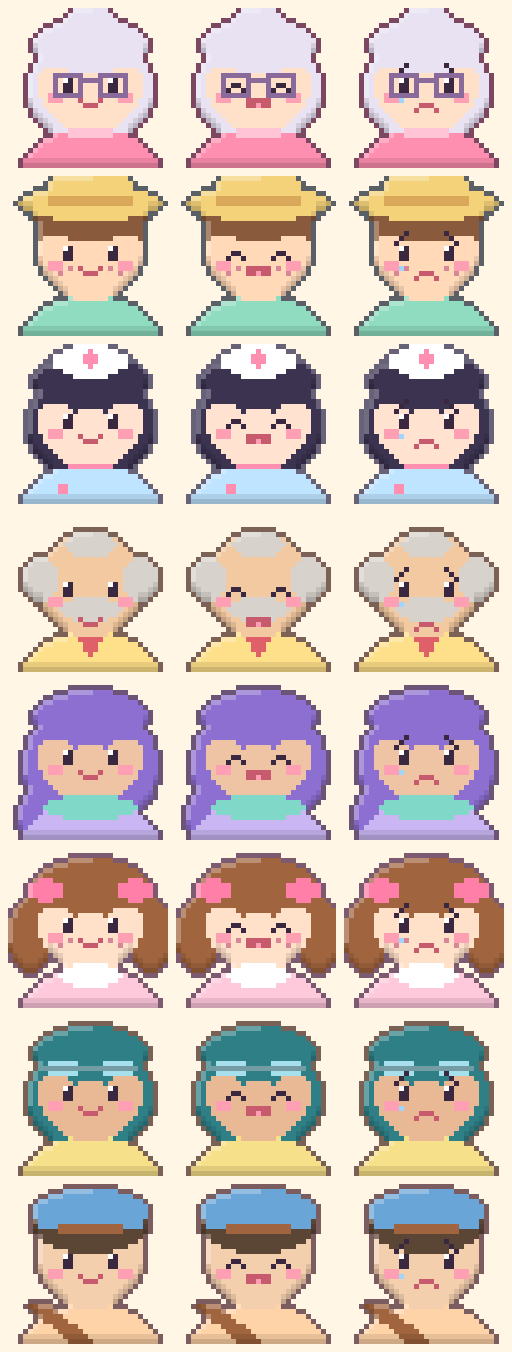
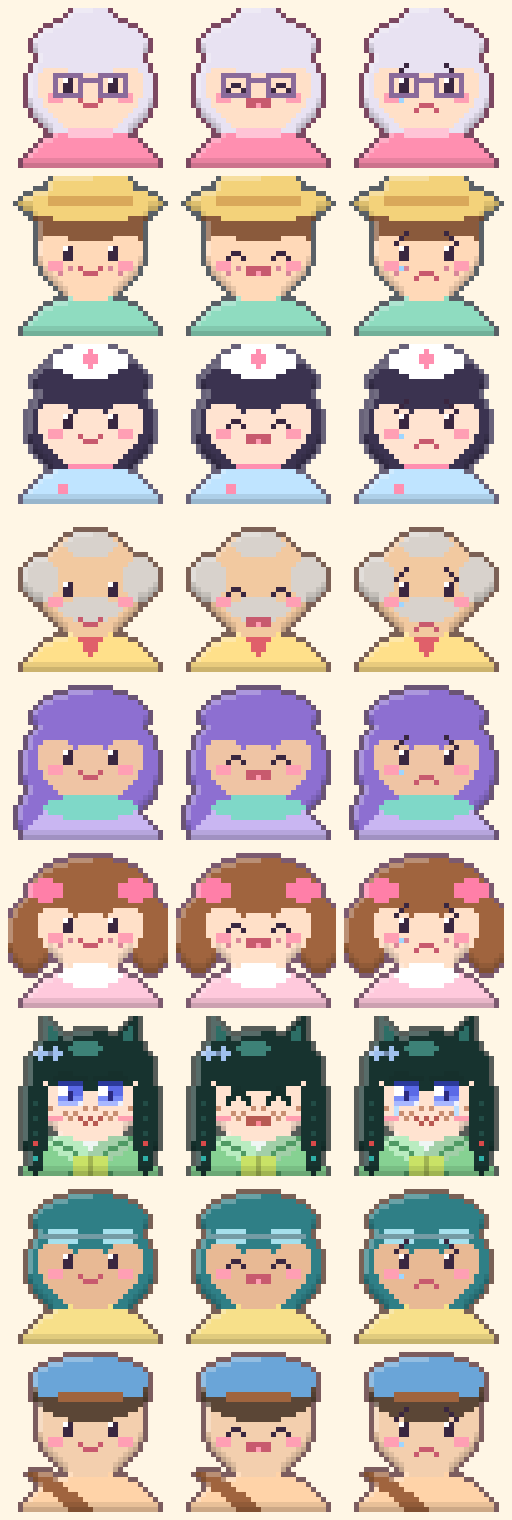
feat(mao-mao): Mao Mao atiende la Veterinaria mientras la Dra. Pita está de viaje
Retrato pixel art chibi de gato registrado (id mao), escena de despedida de Pita y llegada de
Mao Mao al terminar el festival, sus líneas y visitas desde el capítulo 6 (visitas de Pita con
maxCh 5), texto de la Veterinaria según el capítulo. Pruebas y e2e; README, CLAUDE.md y notas.

Claude-Session: https://claude.ai/code/session_018YWypGKWXhxvXiHh4dNhvd

diff --git a/src/data.js b/src/data.js
@@ -318,7 +318,8 @@ export const PRODUCTS = {
 export const CHARACTERS = {
   abuela: { nombre: 'Abuela Cosi', rol: 'Dejó la granja a la familia y escribe cartas desde lejos', color: '#ff8fb0' },
   tomas: { nombre: 'Tomás', rol: 'El vecino curioso que ayuda en la granja', color: '#8fdcc0' },
-  pita: { nombre: 'Dra. Pita', rol: 'La veterinaria del pueblo', color: '#bfe4ff' },
+  pita: { nombre: 'Dra. Pita', rol: 'La veterinaria del pueblo (de viaje desde el festival)', color: '#bfe4ff' },
+  mao: { nombre: 'Mao Mao', rol: 'Boticaria que cuida la Veterinaria mientras la Dra. Pita está de viaje', color: '#86d192' },
   ramon: { nombre: 'Don Ramón', rol: 'El comerciante que compra tus productos', color: '#ffe08a' },
   lia: { nombre: 'Lía', rol: 'Guía del río perdido, amiga de la abuela de joven', color: '#c9b6f2' },
   mia: { nombre: 'Mía', rol: 'La hermanita de Tomás, coleccionista de cosas suaves', color: '#ffc9dc' },
@@ -490,10 +491,10 @@ export const SIDE_QUESTS = [
     text: 'Los niños de la escuela merecen un vaso de leche fresca. Recoge 5 leches.',
     goal: { type: 'collect', product: 'leche', n: 5 }, reward: { coins: 30, foods: { heno: 6 } } },
   { id: 's-familia', minCh: 2, who: 'pita', title: 'La familia crece',
-    text: 'Me encanta ver crías sanas. Que nazcan 3 crías en la granja.',
+    text: 'Nota de la Dra. Pita: «Me encanta ver crías sanas. Que nazcan 3 crías en la granja.»',
     goal: { type: 'born', n: 3 }, reward: { coins: 70 } },
   { id: 's-corazon', minCh: 2, who: 'pita', title: 'Un amigo de verdad',
-    text: 'La confianza se gana con mimos y su comida favorita. Consigue que un animal tenga 1 corazón.',
+    text: 'Nota de la Dra. Pita: «La confianza se gana con mimos y su comida favorita. Consigue que un animal tenga 1 corazón.»',
     goal: { type: 'hearts', n: 1 }, reward: { coins: 40 } },
   { id: 's-brillitos', minCh: 2, needs: 'mapache', who: 'tomas', title: 'Colección de brillitos',
     text: 'El mapache esconde cosas brillantes en el bosque. Recoge 3 brillitos.',
@@ -502,7 +503,7 @@ export const SIDE_QUESTS = [
     text: 'El restaurante del pueblo me pidió trufas para su menú especial. Recoge 3 trufas.',
     goal: { type: 'collect', product: 'trufa', n: 3 }, reward: { coins: 90 } },
   { id: 's-chequeo', minCh: 3, who: 'pita', title: 'Visita a la Veterinaria',
-    text: 'Si algún animal se enferma, tráelo: lo dejo como nuevo. Cura a 1 animal en la Veterinaria.',
+    text: 'Nota de la Dra. Pita: «Si algún animal se enferma, tráelo: lo dejo como nuevo.» Cura a 1 animal en la Veterinaria.',
     goal: { type: 'cured', n: 1 }, reward: { coins: 40 } },
   { id: 's-burbujas', minCh: 3, needs: 'ajolote', who: 'tomas', title: 'Burbujas de la suerte',
     text: 'Mi hermanita quiere un frasco lleno de burbujas. Recoge 3 burbujas.',
@@ -511,7 +512,7 @@ export const SIDE_QUESTS = [
     text: 'El sábado hay mercado y quiero tener de todo. Vende 25 productos.',
     goal: { type: 'sold', n: 25 }, reward: { coins: 120 } },
   { id: 's-mejores', minCh: 3, who: 'pita', title: 'Mejores amigos',
-    text: 'Dicen que un animal con 4 corazones te sigue a todas partes. Consigue que uno tenga 4 corazones.',
+    text: 'Nota de la Dra. Pita: «Dicen que un animal con 4 corazones te sigue a todas partes.» Consigue que uno tenga 4 corazones.',
     goal: { type: 'hearts', n: 4 }, reward: { coins: 150 } },
   { id: 's-escamas', minCh: 4, needs: 'carnotauro', who: 'lia', title: 'Escamas para el faro',
     text: 'Con escamas de fuego se enciende el faro del río. Recoge 3 escamas de fuego.',
@@ -585,7 +586,7 @@ export const SECRETS = {
 export const SECRET_ORDER = Object.keys(SECRETS);
 
 /** Epílogo que se muestra al terminar la historia. */
-export const EPILOGUE = 'La abuela Cosi se quedó a vivir en la casita junto al estanque. Cada tarde se sienta con Tomás, Mía, Lía, Noa, la Dra. Pita y Don Ramón a mirar jugar a los animales: los de la granja, los del valle y hasta los que llegaron de las estrellas. Bruno reparte la noticia de que todo está en calma. Dicen que es la granja más feliz que conocieron. La historia terminó, pero la granja sigue: quedan misiones secundarias, crías raras y secretos por descubrir.';
+export const EPILOGUE = 'La abuela Cosi se quedó a vivir en la casita junto al estanque. Cada tarde se sienta con Tomás, Mía, Lía, Noa, Mao Mao y Don Ramón a mirar jugar a los animales: los de la granja, los del valle y hasta los que llegaron de las estrellas. Bruno reparte la noticia de que todo está en calma, y las postales de la Dra. Pita desde su viaje. Dicen que es la granja más feliz que conocieron. La historia terminó, pero la granja sigue: quedan misiones secundarias, crías raras y secretos por descubrir.';
 
 // Escenas con diálogo (guion en docs/GUION_HISTORIA.md). `when`: `inicio:<misión>` (cuando pasa a ser la activa),
 // `fin:<misión>` (al reclamarla) o `evento:primera-enfermedad`. Si dos se cumplen a la vez sale primero la de
@@ -748,6 +749,14 @@ export const SCENES = [
     ['pita', 1, '¡Un brindis! Con leche, que hay vacas.'],
     ['abuela', 1, 'Gracias por quedarse. Esta granja es de ustedes de verdad.'],
   ] },
+  { id: 'una-boticaria-nueva', when: 'fin:c5-festival', title: 'Una boticaria nueva', lines: [
+    ['pita', 1, 'Antes de que se acabe la fiesta, tengo noticias: me voy de viaje a un congreso de veterinaria. ¡Volveré con muchas historias!'],
+    ['tomas', 2, '¿Y quién cuidará de los animales enfermos?'],
+    ['pita', 0, 'Dejo la Veterinaria en buenas manos. Ella es Mao Mao, boticaria del pueblo vecino.'],
+    ['mao', 0, 'Hola. Entiendo de hierbas, de remedios y de por qué los pacientes nunca quieren tomárselos.'],
+    ['mia', 1, '¡Tiene pecas como yo!'],
+    ['mao', 1, 'Y un gorro con orejitas de gato. Es práctico para el frío.'],
+  ] },
   { id: 'el-rio-vuelve', when: 'inicio:c6-camino', title: 'El río vuelve a cantar', lines: [
     ['lia', 1, '¿Lo oyen? El río cantó toda la noche. Desde el festival ya no se esconde.'],
     ['mia', 1, '¡Suena como un cascabel enorme!'],
@@ -774,7 +783,7 @@ export const SCENES = [
   { id: 'noa-y-el-triceratops', when: 'fin:c6-noa', title: 'Noa y el triceratops', lines: [
     ['noa', 1, 'Ya es adulto… ¡y me reconoció! ¡Me reconoció!'],
     ['noa', 0, 'Veinte años de libros sobre ellos y ninguno decía que ronronean.'],
-    ['pita', 1, 'No ronronean, Noa. Se les hincha el pecho de felicidad.'],
+    ['mao', 1, 'No ronronean, Noa. Se les hincha el pecho de felicidad. Lo comprobé… con un estetoscopio y mucha paciencia.'],
     ['noa', 1, 'Eso. Lo apunto ahora mismo.'],
   ] },
   { id: 'nombres-para-el-cuaderno', when: 'inicio:c6-nombres', title: 'Nombres para el cuaderno', lines: [
@@ -839,7 +848,7 @@ export const SCENES = [
     ['lia', 0, 'Algo se acerca al estanque. Algo con el cuello larguísimo.'],
     ['noa', 1, '¡Un plesiosaurio! ¡Pero si son de mar, no de río!'],
     ['lia', 1, 'Este es de agua dulce. Mi abuela decía que el lago de aquí los guardaba.'],
-    ['pita', 1, '¡Qué cuello! Con razón le encanta el gusanito.'],
+    ['mao', 1, '¡Qué cuello! Voy a medirlo… y a probar un gusanito. Por ciencia.'],
     ['lia', 0, 'Ahora el estanque tiene guardián. Y el río, compañía.'],
   ] },
   { id: 'noche-de-estrellas', when: 'fin:c7-marea', title: 'Noche de estrellas', lines: [
@@ -851,11 +860,11 @@ export const SCENES = [
     ['abuela', 1, 'Gracias por no irte tú.'],
   ] },
   { id: 'cinco-corazones', when: 'inicio:c7-corazones', title: 'Cinco corazones', lines: [
-    ['pita', 1, 'He medido el cariño con mi método científico. Es… un abrazo largo.'],
+    ['mao', 1, 'La Dra. Pita me dejó apuntes sobre el cariño. Mi conclusión: es un abrazo largo.'],
     ['noa', 0, 'Eso no es un método.'],
-    ['pita', 0, 'Funciona. Los animales con cinco corazones casi no se enferman.'],
+    ['mao', 0, 'Y funciona. Los animales con cinco corazones casi no se enferman.'],
     ['tomas', 1, 'Entonces el truco es quererlos mucho.'],
-    ['pita', 1, 'Eso. Escríbelo, Noa.'],
+    ['mao', 1, 'Eso. Escríbelo, Noa. Con letra clara.'],
   ] },
   { id: 'la-gran-guardia', when: 'inicio:c7-final', title: 'La gran guardia', lines: [
     ['abuela', 0, 'Está todo en orden. El valle duerme tranquilo y el río canta.'],
@@ -927,7 +936,7 @@ export const SCENES = [
   { id: 'leche-azul', when: 'fin:c8-leche', title: 'Leche azul', lines: [
     ['mia', 1, '¡Es azul de verdad! Y huele a vainilla.'],
     ['ramon', 0, 'Eso se vende… digo, se bebe. Se bebe con mucho respeto.'],
-    ['pita', 1, 'Calcio, vitaminas y cero culpa. Receta aprobada.'],
+    ['mao', 1, 'La probé primero, por seguridad. Calcio, vitaminas y cero culpa. Aprobada.'],
     ['mia', 1, 'Brindo por el bantha más peludo de la galaxia.'],
   ] },
   { id: 'tres-visitantes', when: 'fin:c8-leche', title: 'Tres visitantes', lines: [
@@ -960,9 +969,9 @@ export const VISITS = [
   { id: 'v-mia-1', who: 'mia', minCh: 2, lines: [['mia', 1, 'Te traje un dibujo. Es de la gallina que parece que sonríe.'], ['mia', 0, 'No se lo digas a Tomás: este es solo para ti.']] },
   { id: 'v-mia-2', who: 'mia', minCh: 2, lines: [['mia', 0, 'El bosque ya no me da tanto miedo. Un poquito, nada más.']] },
   { id: 'v-mia-3', who: 'mia', minCh: 4, lines: [['mia', 1, 'Mi bufanda ya tiene dos colores. Va a ser la más suave de todas.']] },
-  { id: 'v-pita-1', who: 'pita', minCh: 3, cond: 'enfermo', lines: [['pita', 0, 'Vi a un animalito con mala cara. Dale descanso, comida y mimos; si quieres, pasa por la Veterinaria.'], ['pita', 1, 'Y recuerda: no es culpa de nadie.']] },
-  { id: 'v-pita-2', who: 'pita', minCh: 3, cond: 'sano', lines: [['pita', 1, '¡Qué granja tan sana! Esto sí que es buen cuidado.'], ['pita', 0, 'Casi me quedo sin pacientes. Qué problema más bonito.']] },
-  { id: 'v-pita-3', who: 'pita', minCh: 3, lines: [['pita', 0, 'Pasé de ronda. Los dinosaurios también se resfrían, ¿sabes? Lo descubrí esta semana.']] },
+  { id: 'v-pita-1', who: 'pita', minCh: 3, maxCh: 5, cond: 'enfermo', lines: [['pita', 0, 'Vi a un animalito con mala cara. Dale descanso, comida y mimos; si quieres, pasa por la Veterinaria.'], ['pita', 1, 'Y recuerda: no es culpa de nadie.']] },
+  { id: 'v-pita-2', who: 'pita', minCh: 3, maxCh: 5, cond: 'sano', lines: [['pita', 1, '¡Qué granja tan sana! Esto sí que es buen cuidado.'], ['pita', 0, 'Casi me quedo sin pacientes. Qué problema más bonito.']] },
+  { id: 'v-pita-3', who: 'pita', minCh: 3, maxCh: 5, lines: [['pita', 0, 'Pasé de ronda. Los dinosaurios también se resfrían, ¿sabes? Lo descubrí esta semana.']] },
   { id: 'v-ramon-1', who: 'ramon', minCh: 1, lines: [['ramon', 0, 'Pasaba por aquí. Casualidad, claro.'], ['ramon', 0, 'En el pueblo todos hablan de los huevos de esta granja. Es buena señal.']] },
   { id: 'v-ramon-2', who: 'ramon', minCh: 2, lines: [['ramon', 1, 'Cuando Cosi era joven, subía al tejado a contar estrellas.'], ['ramon', 2, 'Yo le sostenía la escalera. Siempre fui bueno sosteniendo cosas.']] },
   { id: 'v-ramon-3', who: 'ramon', minCh: 4, lines: [['ramon', 0, 'Si ven a Cosi, díganle que la tienda sigue abierta.'], ['ramon', 1, 'Y que hay trufas.']] },
@@ -978,14 +987,14 @@ export const VISITS = [
   { id: 'v-tomas-5', who: 'tomas', minCh: 6, lines: [['tomas', 1, 'Noa me enseñó a dibujar huellas. Las mías parecen papas.']] },
   { id: 'v-mia-4', who: 'mia', minCh: 6, lines: [['mia', 1, 'Le dibujé un triceratops a Noa. Dijo que tiene «proporciones expresivas». No sé qué es, pero suena lindo.']] },
   { id: 'v-lia-3', who: 'lia', minCh: 6, lines: [['lia', 0, 'El valle está más tranquilo desde que Noa lo cuida con nosotras.']] },
-  { id: 'v-pita-4', who: 'pita', minCh: 6, lines: [['pita', 0, 'Noa y yo comparamos notas: ella sabe de huesos y yo de achaques. Equipo perfecto.']] },
+  { id: 'v-pita-4', who: 'mao', minCh: 6, lines: [['mao', 0, 'Noa sabe de huesos y yo de hierbas. Entre las dos curamos casi todo.']] },
   { id: 'v-ramon-4', who: 'ramon', minCh: 6, lines: [['ramon', 0, 'Cosi dice que ya no vende nada que no pueda mirar a los ojos. Yo sigo vendiendo huevos, pero con cariño.']] },
   { id: 'v-bruno-4', who: 'bruno', minCh: 7, lines: [['bruno', 1, 'Entregué una carta en lo alto del acantilado. Me la devolvió un pterodáctilo, sin sello.'], ['bruno', 0, 'Creo que es un pedido de más comida.']] },
   { id: 'v-lia-4', who: 'lia', minCh: 7, lines: [['lia', 0, 'El plesiosaurio nada despacito, como si midiera el estanque. Creo que ya lo considera suyo.']] },
   { id: 'v-noa-3', who: 'noa', minCh: 7, lines: [['noa', 0, 'Hoy dibujé nubes. Pasó un pterodáctilo y me arruinó el dibujo. Valió la pena.']] },
   { id: 'v-tomas-6', who: 'tomas', minCh: 7, lines: [['tomas', 1, '¿Sabías que el pterodáctilo duerme con una pata levantada? ¡Igual que yo!']] },
   { id: 'v-mia-5', who: 'mia', minCh: 7, lines: [['mia', 1, 'Hoy subí al mirador a dibujar al pterodáctilo. Casi me mareo, pero valió la pena.']] },
-  { id: 'v-pita-5', who: 'pita', minCh: 7, lines: [['pita', 1, 'Chequeo de rutina al plesiosaurio: cuello perfecto, aletas perfectas y mucho apetito.']] },
+  { id: 'v-pita-5', who: 'mao', minCh: 7, lines: [['mao', 1, 'Chequeo de rutina al plesiosaurio: cuello perfecto, aletas perfectas y mucho apetito. Se lo cuento por carta a la Dra. Pita.']] },
   { id: 'v-ramon-5', who: 'ramon', minCh: 7, lines: [['ramon', 0, 'Vendo huevos, lana y plumas celestes. Todo con certificado de cariño.']] },
   { id: 'v-cosi-3', who: 'abuela', minCh: 7, lines: [['abuela', 1, 'El valle respira tranquilo. Eso se oye, si uno se queda quieto.']] },
   { id: 'v-noa-4', who: 'noa', minCh: 8, lines: [['noa', 1, 'El suelo de la Estación zumba suavecito. Creo que es de contento.']] },
@@ -997,4 +1006,7 @@ export const VISITS = [
   { id: 'v-tomas-8', who: 'tomas', minCh: 8, lines: [['tomas', 1, 'El ewok me enseñó a hacer nudos. Los míos parecen espaguetis.']] },
   { id: 'v-noa-5', who: 'noa', minCh: 8, lines: [['noa', 0, 'Grogu me mira como si entendiera mis notas. Creo que corrige mi ortografía.']] },
   { id: 'v-bruno-6', who: 'bruno', minCh: 8, lines: [['bruno', 1, 'BB-8 rodó detrás de mi bicicleta y llegamos a todas las casas en la mitad de tiempo.']] },
+  { id: 'v-mao-1', who: 'mao', minCh: 6, cond: 'enfermo', lines: [['mao', 0, 'Huele a resfriado. Tranquilo: tengo hierbas. Y la Veterinaria cura rápido, por unas monedas.']] },
+  { id: 'v-mao-2', who: 'mao', minCh: 6, cond: 'sano', lines: [['mao', 0, 'Todos sanos. Qué aburrido. Si ves un animal con la nariz roja, avísame: tengo ganas de preparar un té.']] },
+  { id: 'v-mao-3', who: 'mao', minCh: 6, lines: [['mao', 0, 'Estoy catalogando las hierbas del valle. Algunas son tan amargas que… ya me entiendes.'], ['mao', 1, 'Bueno, yo no. Yo las pruebo igual.']] },
 ];

diff --git a/src/ui.js b/src/ui.js
@@ -2,6 +2,7 @@
 // Todo el texto dinámico se inserta con textContent / nodos de texto (nunca innerHTML).
 
 import { TUTORIAL_STEPS, stepSkipped, nextIndex, stepDone } from './tutorial.js';
+import { chapterNow } from './story.js';
 import {
   SPECIES, ORDER, FOODS, PRODUCTS, QUESTS, SCENES, LETTERS, CHAPTERS, CHARACTERS, EPILOGUE, SECRETS, SECRET_ORDER, BALANCE, CORRAL_TYPES, corralTypeOf,
   rarityOf, rarityLabel, MAX_HEARTS, DISEASES,
@@ -395,7 +396,7 @@ export function createUI(app) {
     const w = W();
     const sick = w.animals.filter((a) => a.sick).sort((a, b) => a.id - b.id);
     return h('div', null,
-      h('p', { class: 'muted', text: 'La Dra. Pita revisa a tus animales. Curar aquí es inmediato; en casa también se curan solos, más despacio, si están bien comidos y contentos.' }),
+      h('p', { class: 'muted', text: `${chapterNow(w) >= 6 ? 'Mao Mao cuida la Veterinaria mientras la Dra. Pita está de viaje.' : 'La Dra. Pita revisa a tus animales.'} Curar aquí es inmediato; en casa también se curan solos, más despacio, si están bien comidos y contentos.` }),
       sick.length ? sick.map((a) => {
         const d = DISEASES[a.sick];
         const cost = BALANCE.cureCost[a.sick];

diff --git a/src/story.js b/src/story.js
@@ -33,7 +33,7 @@ export const chapterNow = (w) => QUESTS.find((q) => !w.quests.claimed[q.id])?.ch
 export function pickVisit(w, last = null, rnd = Math.random) {
   const ch = chapterNow(w);
   const sick = w.animals.some((a) => a.sick);
-  const ok = VISITS.filter((v) => v.minCh <= ch && v.who !== last && (!v.cond || (v.cond === 'enfermo') === sick));
+  const ok = VISITS.filter((v) => v.minCh <= ch && !(ch > v.maxCh) && v.who !== last && (!v.cond || (v.cond === 'enfermo') === sick));
   let pool = ok.filter((v) => !w.story.talked[v.id]);
   if (!pool.length) { for (const v of ok) delete w.story.talked[v.id]; pool = ok; }
   return pool[Math.floor(rnd() * pool.length)] || null;

diff --git a/tools/e2e_smoke.py b/tools/e2e_smoke.py
@@ -908,6 +908,44 @@ def chapter8(browser):
     ctx.close()
 
 
+def mao_mao(browser):
+    print("\n== Mao Mao reemplaza a la Dra. Pita")
+    ctx = browser.new_context(viewport={"width": 390, "height": 844}, device_scale_factor=2, is_mobile=True, has_touch=True)
+    page = ctx.new_page()
+    errors = []
+    page.on("console", lambda m: errors.append(m.text) if m.type == "error" else None)
+    page.on("pageerror", lambda e: errors.append(str(e)))
+    page.goto(URL_ESCENAS)
+    page.wait_for_function("document.getElementById('loading').hidden === true", timeout=15000)
+    page.locator('[data-key="story-skip"]').click()
+    page.evaluate("""(async () => {
+      const { QUESTS, SCENES } = await import('/src/data.js');
+      const w = farmweb.app.w;
+      for (const q of QUESTS) { w.quests.claimed[q.id] = true; if (q.id === 'c5-festival') break; }
+      for (const sc of SCENES) w.story.seen[sc.id] = sc.id !== 'una-boticaria-nueva';
+      for (const t of ['bosque', 'estanque', 'jurasico']) if (!w.corrales.some((c) => c.tipo === t)) w.corrales.push({ id: t, tipo: t, nombre: t, nivel: 0 });
+    })()""")
+    page.wait_for_selector(".story", timeout=5000)
+    check(page.locator(".story").get_attribute("aria-label") == "Una boticaria nueva", "al terminar el festival sale la escena de Mao Mao")
+    for _ in range(3):
+        page.wait_for_timeout(1200)
+        page.locator('[data-key="story-next"]').click(); page.locator('[data-key="story-next"]').click()
+    page.wait_for_timeout(1500)
+    check("Mao Mao" in page.locator(".story-name").inner_text(), "Mao Mao habla en la escena con su retrato")
+    page.screenshot(path=f"{SHOTS}/movil-60-mao-mao-escena.png")
+    page.locator('[data-key="story-skip"]').click()
+    check(page.evaluate("fetch('/assets/sprites/portraits.json').then((r) => r.json()).then((j) => 'mao' in j.index)"), "el atlas de retratos incluye a Mao Mao")
+    page.click('[data-goto="mapa"]')
+    page.wait_for_timeout(300)
+    gbox = page.locator("#game").bounding_box()
+    page.mouse.click(gbox["x"] + 164 * gbox["width"] / 320, gbox["y"] + 48 * gbox["height"] / 224)
+    page.wait_for_timeout(300)
+    check("Mao Mao cuida la Veterinaria" in page.locator("#sheetBody").inner_text(), "la Veterinaria dice que Mao Mao la cuida mientras Pita viaja")
+    page.screenshot(path=f"{SHOTS}/movil-61-veterinaria-mao.png")
+    check(not errors, "sin errores de consola" + (f": {errors[:3]}" if errors else ""))
+    ctx.close()
+
+
 def main():
     server = subprocess.Popen([sys.executable, "-m", "http.server", str(PORT), "--bind", "127.0.0.1"],
                               cwd=ROOT, stdout=subprocess.DEVNULL, stderr=subprocess.DEVNULL)
@@ -935,6 +973,7 @@ def main():
             chapter7(browser)
             sheep_and_fox(browser)
             chapter8(browser)
+            mao_mao(browser)
             tutorial_flow(browser, "movil", {"width": 390, "height": 844}, 3, True)
             tutorial_flow(browser, "pc", {"width": 1280, "height": 800}, 1, False)
             tutorial_returning_player(browser)

diff --git a/tools/gen_sprites.py b/tools/gen_sprites.py
@@ -1692,6 +1692,7 @@ PORTRAITS = [
     ("ramon", pt_ramon, dict(skin="#f2c9a0", hair="#d8d2cc", cloth="#ffe08a", trim="#e0606a"), dict(my=22)),
     ("lia", pt_lia, dict(skin="#efc4a4", hair="#8d6fd1", cloth="#c9b6f2", trim="#7fd8c8"), {}),
     ("mia", pt_mia, dict(skin="#ffe0c8", hair="#a0643e", cloth="#ffc9dc", trim="#ff7fa8"), dict(freckles=True)),
+    ("mao", pt_maomao_gato, MAOMAO_LOOK, dict(face=_maomao_cara, gato=True)),   # Mao Mao: chibi de gato
     ("noa", pt_noa, dict(skin="#e8b994", hair="#2f7f86", cloth="#f7e08a", trim="#a6e0ec"), {}),
     ("bruno", pt_bruno, dict(skin="#f3cfae", hair="#5b4636", cloth="#ffd3a8", hat="#6aa5d8", trim="#a0643e"), {}),
 ]

diff --git a/CLAUDE.md b/CLAUDE.md
@@ -22,9 +22,9 @@ El dueño es Luis Josué; **responde siempre en español**.
 | Qué | Comando |
 |---|---|
 | Jugar en local (PC y celular en la misma Wi-Fi) | doble clic a `iniciar.bat` o `npm start` |
-| Pruebas unitarias | `npm test` (deben pasar todas; hoy 145) |
+| Pruebas unitarias | `npm test` (deben pasar todas; hoy 147) |
 | Regenerar sprites | `npm run sprites` (Python + Pillow; escribe `assets/sprites/*`) |
-| Recorrido en navegador | `python tools/e2e_smoke.py <carpeta_capturas>` (Playwright + Chrome; hoy 290 comprobaciones) |
+| Recorrido en navegador | `python tools/e2e_smoke.py <carpeta_capturas>` (Playwright + Chrome; hoy 295 comprobaciones) |
 
 Tras un cambio visible, recarga con Ctrl+F5. El servidor local envía `Cache-Control: no-store`.
 Con `?debug` en la URL queda disponible `window.farmweb = { app, sim, audio }`. `?sinescenas` y `?sintutorial` apagan las
@@ -60,6 +60,9 @@ Historia hasta el Capítulo 7 («El valle escondido» y «Alas y mareas»): corr
 Estación Estelar (Capítulo 8 «Más allá del cielo»): corral `estacion` (12 lugares) por historia y 9 criaturas de Star Wars que se
 compran y crían (porg, gato loth, tauntaun, bantha, purrgil, dewback, ewok, Grogu y BB-8; los últimos 3 se conocen al
 cobrar la leche azul). Sitio privado y sin fines de lucro, según el dueño.
+Mao Mao (retrato pixel art chibi de gato, id `mao`) atiende la Veterinaria desde el Capítulo 6 mientras la Dra. Pita está de viaje:
+Pita se despide en la escena `una-boticaria-nueva` (al terminar el festival), sus visitas llevan `maxCh: 5` y las líneas de los
+capítulos 6 a 8 las dice Mao Mao.
 Tutorial guiado de Tomás, 13 pasos; los de panel abren el panel y no oscurecen encima (`src/tutorial.js` pasos, `startTutorial` en `ui.js`, marca `tutorial` en `farmweb:ui:v1`, una vez
 por dispositivo, repetible en Mundo; `?sintutorial` lo apaga y el e2e lo usa).
 `tests/historia-completa.test.mjs` recorre toda la historia: añade ahí cualquier capítulo nuevo sin tocar más.

diff --git a/README.md b/README.md
@@ -16,7 +16,7 @@ Juego web de granja, **tierno y familiar** (por ahora de un solo jugador; el mun
 
 - **Corazones.** Cada animal tiene de 0 a 5 corazones («Corazones 3 de 5» en la tarjeta y en *Animales*). Suben al acariciarlo y con su comida favorita (con un tope diario) y bajan muy despacio solo si lo descuidas con el juego abierto. Cada corazón acelera un 4 % su producción.
 - **Enfermedades y Veterinaria.** Resfriado, pancita, pulgas y tristeza. Un animal enfermo no produce, no crece ni cría, pero nunca muere ni pierde nada. Se cura solo si lo cuidas en casa, o al instante en la **Veterinaria** del mapa por unas pocas monedas. Mientras no juegas nadie enferma ni empeora.
-- **Historia completa.** Personajes (abuela Cosi, Tomás, Dra. Pita, Don Ramón, Lía, Mía y Bruno) y el **Capítulo 5: El festival de la granja**, con final y epílogo.
+- **Historia completa.** Personajes (abuela Cosi, Tomás, Dra. Pita, Don Ramón, Lía, Mía, Bruno, Noa y **Mao Mao**, la boticaria que cuida la Veterinaria cuando la Dra. Pita se va de viaje) y el **Capítulo 5: El festival de la granja**, con final y epílogo.
 - **Misiones secundarias** en paralelo (22), con un **Historial** aparte en *Misiones*.
 - **Secretos**: 8 easter eggs con logros (*Misiones › Secretos encontrados*).
 - **Conejo y pato**, con sus colores, brillante, voz, comida y producto.

diff --git a/docs/NOTAS_MEJORAS_NOCTURNAS.md b/docs/NOTAS_MEJORAS_NOCTURNAS.md
@@ -175,3 +175,11 @@ arreglo: la tarjeta de un animal sano mostraba «null» desde el sub-paso 2 de l
   comida nueva). Productos: hilo peludo, chispa verde y tuerquita. Se conocen al cobrar `c8-leche` (la escena
   «Tres visitantes» los presenta) y se compran y crían como el resto. 3 secundarias y 3 charlas de visita.
 - El dueño confirmó que el sitio es privado, sin acceso externo y sin fines de lucro.
+
+## Mao Mao reemplaza a la Dra. Pita en la Veterinaria
+- Mao Mao es la boticaria del pueblo vecino (inspirada en el personaje de «Los diarios de la boticaria»; sitio privado y sin fines
+  de lucro, según el dueño). Retrato pixel art chibi de gato con 3 expresiones, id `mao`.
+- Lore: la Dra. Pita se va a un congreso de veterinaria al terminar el festival (escena `una-boticaria-nueva`, `fin:c5-festival`)
+  y deja la Veterinaria a Mao Mao. Desde el capítulo 6 solo hablan y visitan Mao Mao; Pita sigue en los capítulos 1 a 5
+  (sus visitas llevan `maxCh: 5`) y deja «notas» en sus secundarias. El panel de la Veterinaria lo dice según el capítulo.
+- Descartado a propósito: la versión humana y la versión ilustrada suave de Maomao (pruebas fuera del proyecto).
